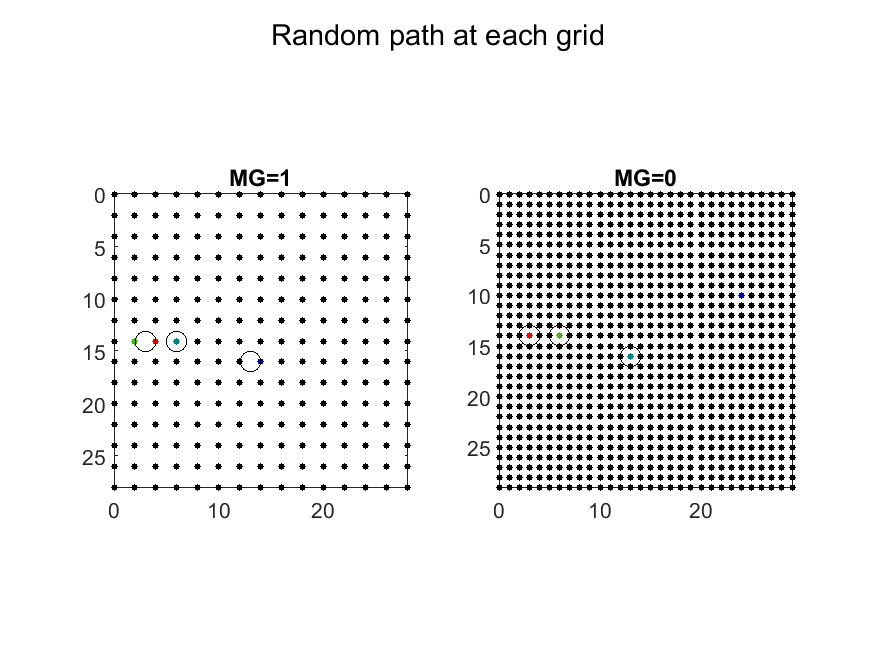
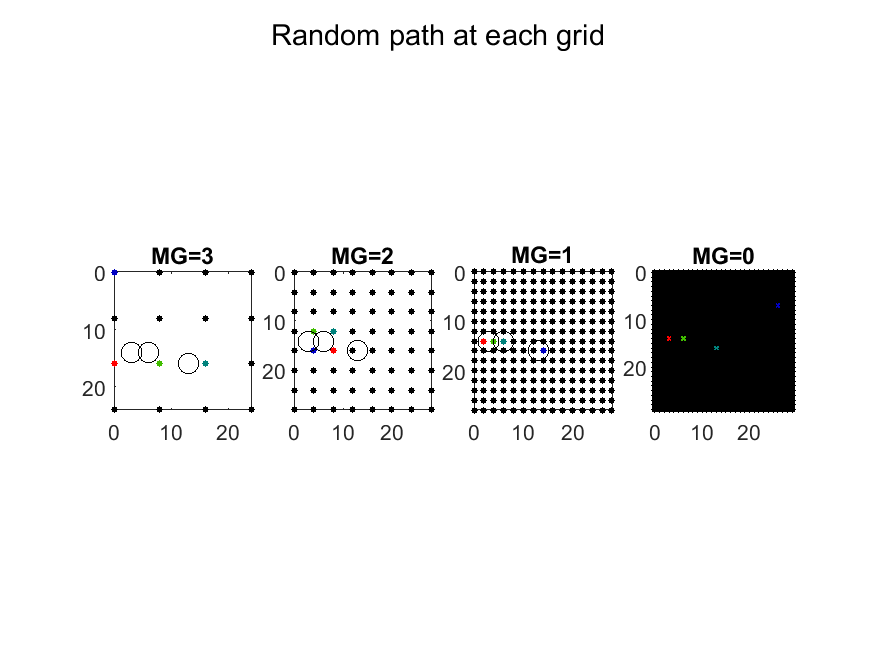
Implemented relocation of soft data: At simulation time soft data are reocated to the coearse grid. After simulation, these soft data are removed/reset to NaN values, and the simulated 'hard' calue is also set to Nan.. Only co-located values is kept.

Changed region(s): [[0.0926, 0.2439, 0.9257, 0.7927], [0.3394, 0.7317, 0.4011, 0.7927], [0.216, 0.5488, 0.2469, 0.5793]]

diff --git a/mpslib/MPSAlgorithm.cpp b/mpslib/MPSAlgorithm.cpp
@@ -405,6 +405,8 @@ void MPS::MPSAlgorithm::_clearSGFromHD(std::vector<MPS::Coords3D>& addedNodes, s
 	putbackNodes.clear();
 }
 
+
+
 /**
 * @brief Read a line of configuration file and put the result inside a vector data
 * @param file filestream
@@ -486,8 +488,8 @@ bool MPS::MPSAlgorithm::_readLineConfiguration_mul(std::ifstream& file, std::str
 /**
 * @brief Shuffle the simulation grid path based preferential to soft data
 * @param level current multi grid level
-*/
-bool MPS::MPSAlgorithm::_shuffleSgPathPreferentialToSoftData(const int& level) {
+*/               
+bool MPS::MPSAlgorithm::_shuffleSgPathPreferentialToSoftData(const int& level, std::list<MPS::Coords3D>& allocatedNodesFromSoftData) {
 	// PATH PREFERENTIAL BY ENTROPY OF SOFT DATA
 	// facEntropy=0 --> prefer soft data, but disregard entroopy
 	// facEntropy>0 --> higher number means more deterministic path based increasingly on Entropy
@@ -498,7 +500,7 @@ bool MPS::MPSAlgorithm::_shuffleSgPathPreferentialToSoftData(const int& level) {
 	int node1DIdx;
 	bool isRelocated = false;
 	bool isAlreadyAllocated = false;
-	std::list<MPS::Coords3D> allocatedNodesFromSoftData; //Using to allocate the multiple grid with closest hd values
+	//std::list<MPS::Coords3D> allocatedNodesFromSoftData; //Using to allocate the multiple grid with closest hd values
 	std::map<float, float> softPdf;
 	MPS::Coords3D closestCoords;
 
@@ -507,18 +509,20 @@ bool MPS::MPSAlgorithm::_shuffleSgPathPreferentialToSoftData(const int& level) {
 	for (int z=0; z<_sgDimZ; z+= offset) {
 		for (int y=0; y<_sgDimY; y+= offset) {
 			for (int x=0; x<_sgDimX; x+= offset) {
+				isRelocated = false;
 				randomValue = ((float) rand() / (RAND_MAX));
 				// Any Soft data??
 				if (_getCpdfFromSoftData(x, y, z, level, softPdf, closestCoords)) {
 
 					// We found a conditional data in the vicinity
-					c = c + 1;
-					std::cout << "nsoft=" << c << std::endl;
-					std::cout << "  [x,y,z]   = " << x << "," << y << "," << z  << " ## ";
-					std::cout << softPdf[0] << ","<< softPdf[1] << std::endl;
-					std::cout << "  [x,y,z]C  = " << closestCoords.getX() << "," << closestCoords.getY() << "," << closestCoords.getZ() << "," << std::endl;
-					//for(auto it = softPdf[.cbegin()]; it != softPdf.cend(); ++it) {
-					//	std::cout << it[] << std::endl;
+					if (_debugMode > 2) {
+						c = c + 1;
+						std::cout << "nsoft=" << c << std::endl;
+						std::cout << "  [x,y,z]   = " << x << "," << y << "," << z << " ## ";
+						std::cout << softPdf[0] << "," << softPdf[1] << std::endl;
+						std::cout << "  [x,y,z]C  = " << closestCoords.getX() << "," << closestCoords.getY() << "," << closestCoords.getZ() << "," << std::endl;
+					}
+					
 					//}
 					//Check if the closest node found already in the current relocated node
 					isAlreadyAllocated = (std::find(allocatedNodesFromSoftData.begin(), allocatedNodesFromSoftData.end(), closestCoords) != allocatedNodesFromSoftData.end());
@@ -531,10 +535,24 @@ bool MPS::MPSAlgorithm::_shuffleSgPathPreferentialToSoftData(const int& level) {
 						isRelocated = x != closestCoords.getX() || y != closestCoords.getY() || z != closestCoords.getZ();
 						E=0;
 						for(auto it = softPdf.cbegin(); it != softPdf.cend(); ++it) {
+							
+							//Put the relocated softdata into the softdata grid to continue the simulation
+							// Remember to remove AFTER simulation is done
+							if (isRelocated) {
+								if (_debugMode > 2) {
+									std::cout << "  RELOCATING CAT:" << it->first << " p:" << it->second << std::endl;
+								}
+								for (unsigned int i = 0; i<_softDataCategories.size(); i++) {
+									if (it->first == _softDataCategories[i]) {
+										_softDataGrids[i][z][y][x] = it->second;										
+										break;
+									}
+								}
+							}
+							
 							//// COMPUTE ENTROPY FOR SOFT PDF
 							if (_shuffleSgPath==2) {
 								p = it->second;
-								//std::cout << p << std::endl;
 								if (p==0) {
 									Ei=0;
 								} else {
@@ -543,21 +561,9 @@ bool MPS::MPSAlgorithm::_shuffleSgPathPreferentialToSoftData(const int& level) {
 								}
 								E=E+Ei;
 							}
-
-							//Put the relocated softdata into the softdata grid to continue the simulation
-							if (isRelocated) {
-								for (unsigned int i=0; i<_softDataCategories.size(); i++) {
-									if (it->first == _softDataCategories[i]) {
-										_softDataGrids[i][z][y][x] = it->second;
-										break;
-									}
-								}
-							}
 						}
 
 						I=1-E; // Information content
-
-						std::cout << "  I->" << I << std::endl;
 
 						// Order Soft preference based on Entropy, and use a factor to control
 						// the importance of Entropy
@@ -590,17 +596,6 @@ bool MPS::MPSAlgorithm::_shuffleSgPathPreferentialToSoftData(const int& level) {
 		}
 	}
 
-	//Reset relocated node of soft data to NaN
-	
-	if (isRelocated) {
-		for (std::list<MPS::Coords3D>::iterator ptToBeRelocated = allocatedNodesFromSoftData.begin(); ptToBeRelocated != allocatedNodesFromSoftData.end(); ++ptToBeRelocated) {
-			for (unsigned int i=0; i<_softDataCategories.size(); i++) {
-				_softDataGrids[i][ptToBeRelocated->getZ()][ptToBeRelocated->getY()][ptToBeRelocated->getX()] = std::numeric_limits<float>::quiet_NaN();
-			}
-		}
-	}
-	
-	allocatedNodesFromSoftData.clear();
 
 	if (_debugMode>-1) {
 		std::cout << "Shuffling path, using preferential path with facEntropy=" << facEntropy << std::endl;
@@ -660,8 +655,13 @@ void MPS::MPSAlgorithm::startSimulation(void) {
 	clock_t endNode, beginRealization, endRealization;
 	double elapsedRealizationSecs, elapsedNodeSecs;
 	int nodeEstimatedSeconds, seconds, hours, minutes, lastProgress;
+	// HARD DATA RELOCATION
 	std::vector<MPS::Coords3D> allocatedNodesFromHardData; //Using to allocate the multiple grid with closest hd values
 	std::vector<MPS::Coords3D> nodeToPutBack; //Using to allocate the multiple grid with closest hd values
+	// SOFT DATA RELOCATION
+	std::list<MPS::Coords3D> allocatedNodesFromSoftData; //Using to allocate the multiple grid with closest hd values
+
+
 	lastProgress = 0;
 	int nodeCnt = 0, totalNodes = 0;
 	int sg1DIdx, offset;
@@ -779,14 +779,12 @@ void MPS::MPSAlgorithm::startSimulation(void) {
 				std::random_shuffle ( _simulationPath.begin(), _simulationPath.end() );
 			} else if (_shuffleSgPath>1) {
 				// shuffling preferential to soft data
-				_shuffleSgPathPreferentialToSoftData(level);
+				_shuffleSgPathPreferentialToSoftData(level, allocatedNodesFromSoftData);
 			}
-
 
 			if (!_softDataGrids.empty() && _debugMode > 2) {
 				MPS::io::writeToGSLIBFile(outputFilename + "_sdg_after_shuffling_" + std::to_string(n) + "_level_" + std::to_string(level) + ".gslib", _softDataGrids, _sgDimX, _sgDimY, _sgDimZ, _softDataCategories.size());
 			}
-
 
 			//Performing the simulation
 			//For each value of the path
@@ -839,6 +837,22 @@ void MPS::MPSAlgorithm::startSimulation(void) {
 
 			//Cleaning the allocated data from the SG
 			if(level != 0) _clearSGFromHD(allocatedNodesFromHardData, nodeToPutBack);
+
+			//Cleaning the allocated data from the Soft Data Grid
+			if (level != 0 && allocatedNodesFromSoftData.size()>0) {
+					for (std::list<MPS::Coords3D>::iterator ptToBeRelocated = allocatedNodesFromSoftData.begin(); ptToBeRelocated != allocatedNodesFromSoftData.end(); ++ptToBeRelocated) {
+						// Clear relocated Soft data
+						for (unsigned int i=0; i<_softDataCategories.size(); i++) {
+							_softDataGrids[i][ptToBeRelocated->getZ()][ptToBeRelocated->getY()][ptToBeRelocated->getX()] = std::numeric_limits<float>::quiet_NaN();
+						}
+						// Clear simulated har data at relocated soft data location
+						_sg[ptToBeRelocated->getZ()][ptToBeRelocated->getY()][ptToBeRelocated->getX()] = std::numeric_limits<float>::quiet_NaN();
+				}
+			}
+			// clear list of allocated nodes on soft data
+			allocatedNodesFromSoftData.clear();
+
+
 			if (_debugMode > 2) {
 				MPS::io::writeToGSLIBFile(outputFilename + "_sg_D_after_hard_cleaning_relocation_" + std::to_string(n) + "_level_" + std::to_string(level) + ".gslib", _sg, _sgDimX, _sgDimY, _sgDimZ);
 				std::cout << "After cleaning relocation" << std::endl;

diff --git a/examples/soft_as_hard/ex_hard_as_soft.m b/examples/soft_as_hard/ex_hard_as_soft.m
@@ -14,13 +14,13 @@ O.soft_data_filename='soft_as_hard.dat';
 
 %%
 O.filename_parameter='mps_snesim.txt';
-nmg=1;
+nmg=3;
 O.n_multiple_grids=nmg;
 O.debug=3;
 O.n_real=1;
 O.template_size=[10 10 1];
 O.template_size=[7 7 1];
-O.clean = 0;
+O.clean = 1;
 
 O.exe_root = 'E:\Users\tmh\RESEARCH\PROGRAMMING\GITHUB\MPSLIB\msvc2017\x64\Release';
 
@@ -40,8 +40,8 @@ return
 O.filename_parameter='mps_snesim_mul.txt';
 O.debug=0;
 O.n_real=100;
-O.n_multiple_grids=1;
-O.template_size=[9 9 1];
+O.n_multiple_grids=2;
+O.template_size=[3 3 1];
 [r,Oo]=mps_cpp(TI,SIM,O);
 close all;
 mps_cpp_plot(r,Oo,1);

diff --git a/mpslib/MPSAlgorithm.h b/mpslib/MPSAlgorithm.h
@@ -361,7 +361,7 @@ protected:
 	* @brief Shuffle the simulation grid path based preferential to soft data
 	* @param level current multi grid level
 	*/
-	bool _shuffleSgPathPreferentialToSoftData(const int& level);
+	bool _shuffleSgPathPreferentialToSoftData(const int& level, std::list<MPS::Coords3D>& allocatedNodesFromSoftData);
 	/**
 	* @brief Generate a realization from a PDF defined as a map
 	* @param the pdf as a std::map
